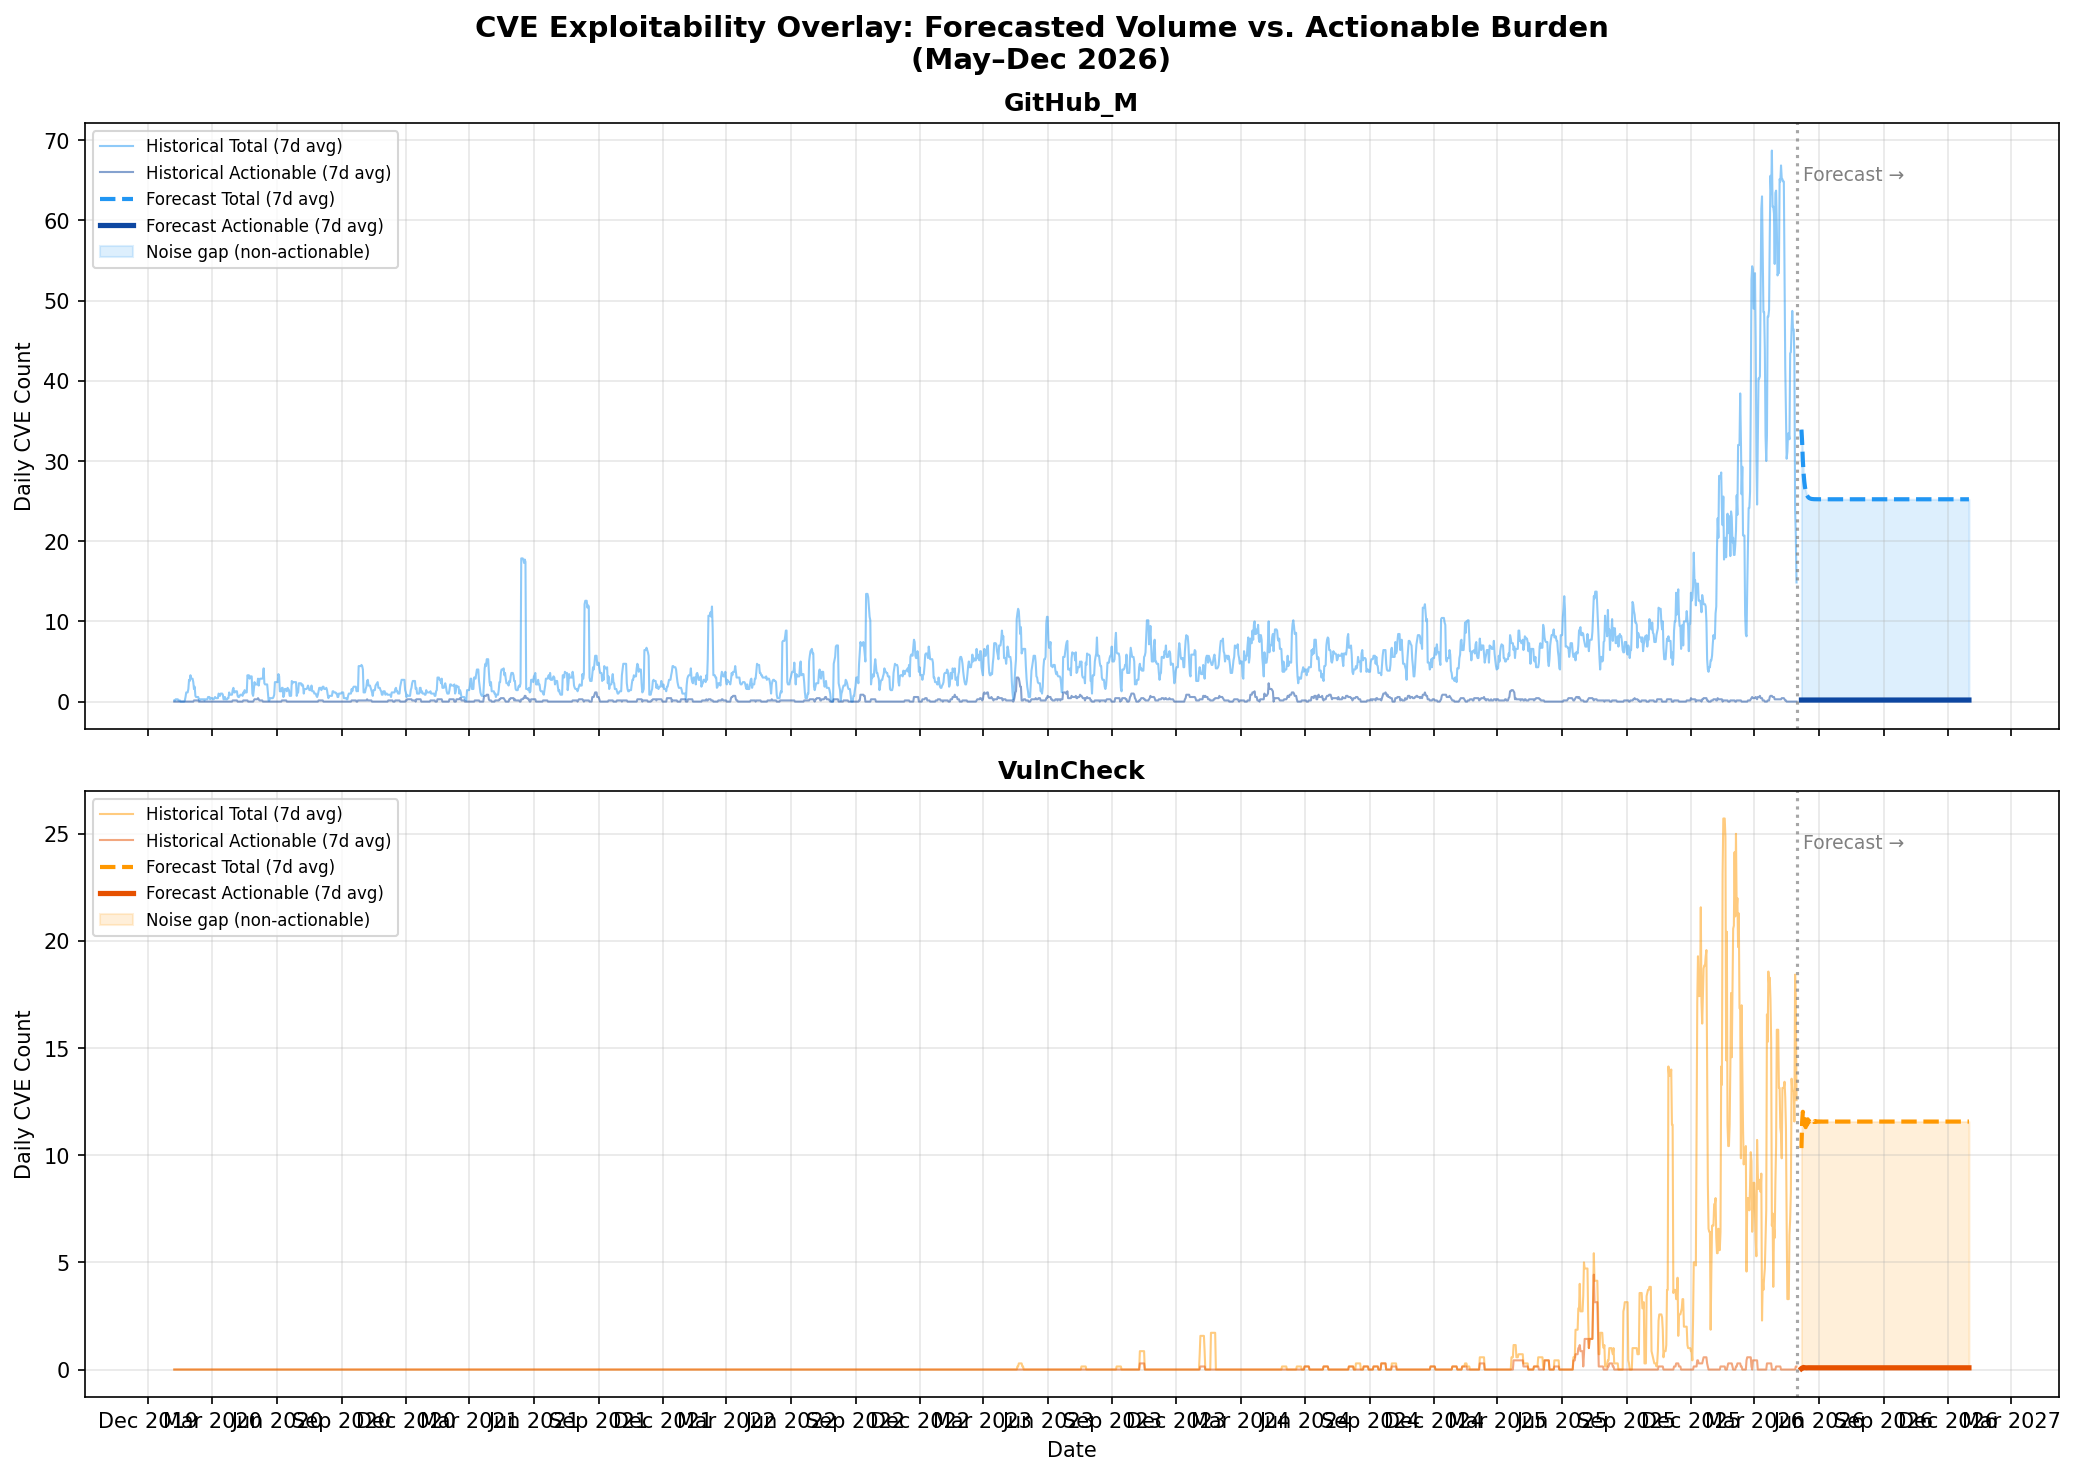
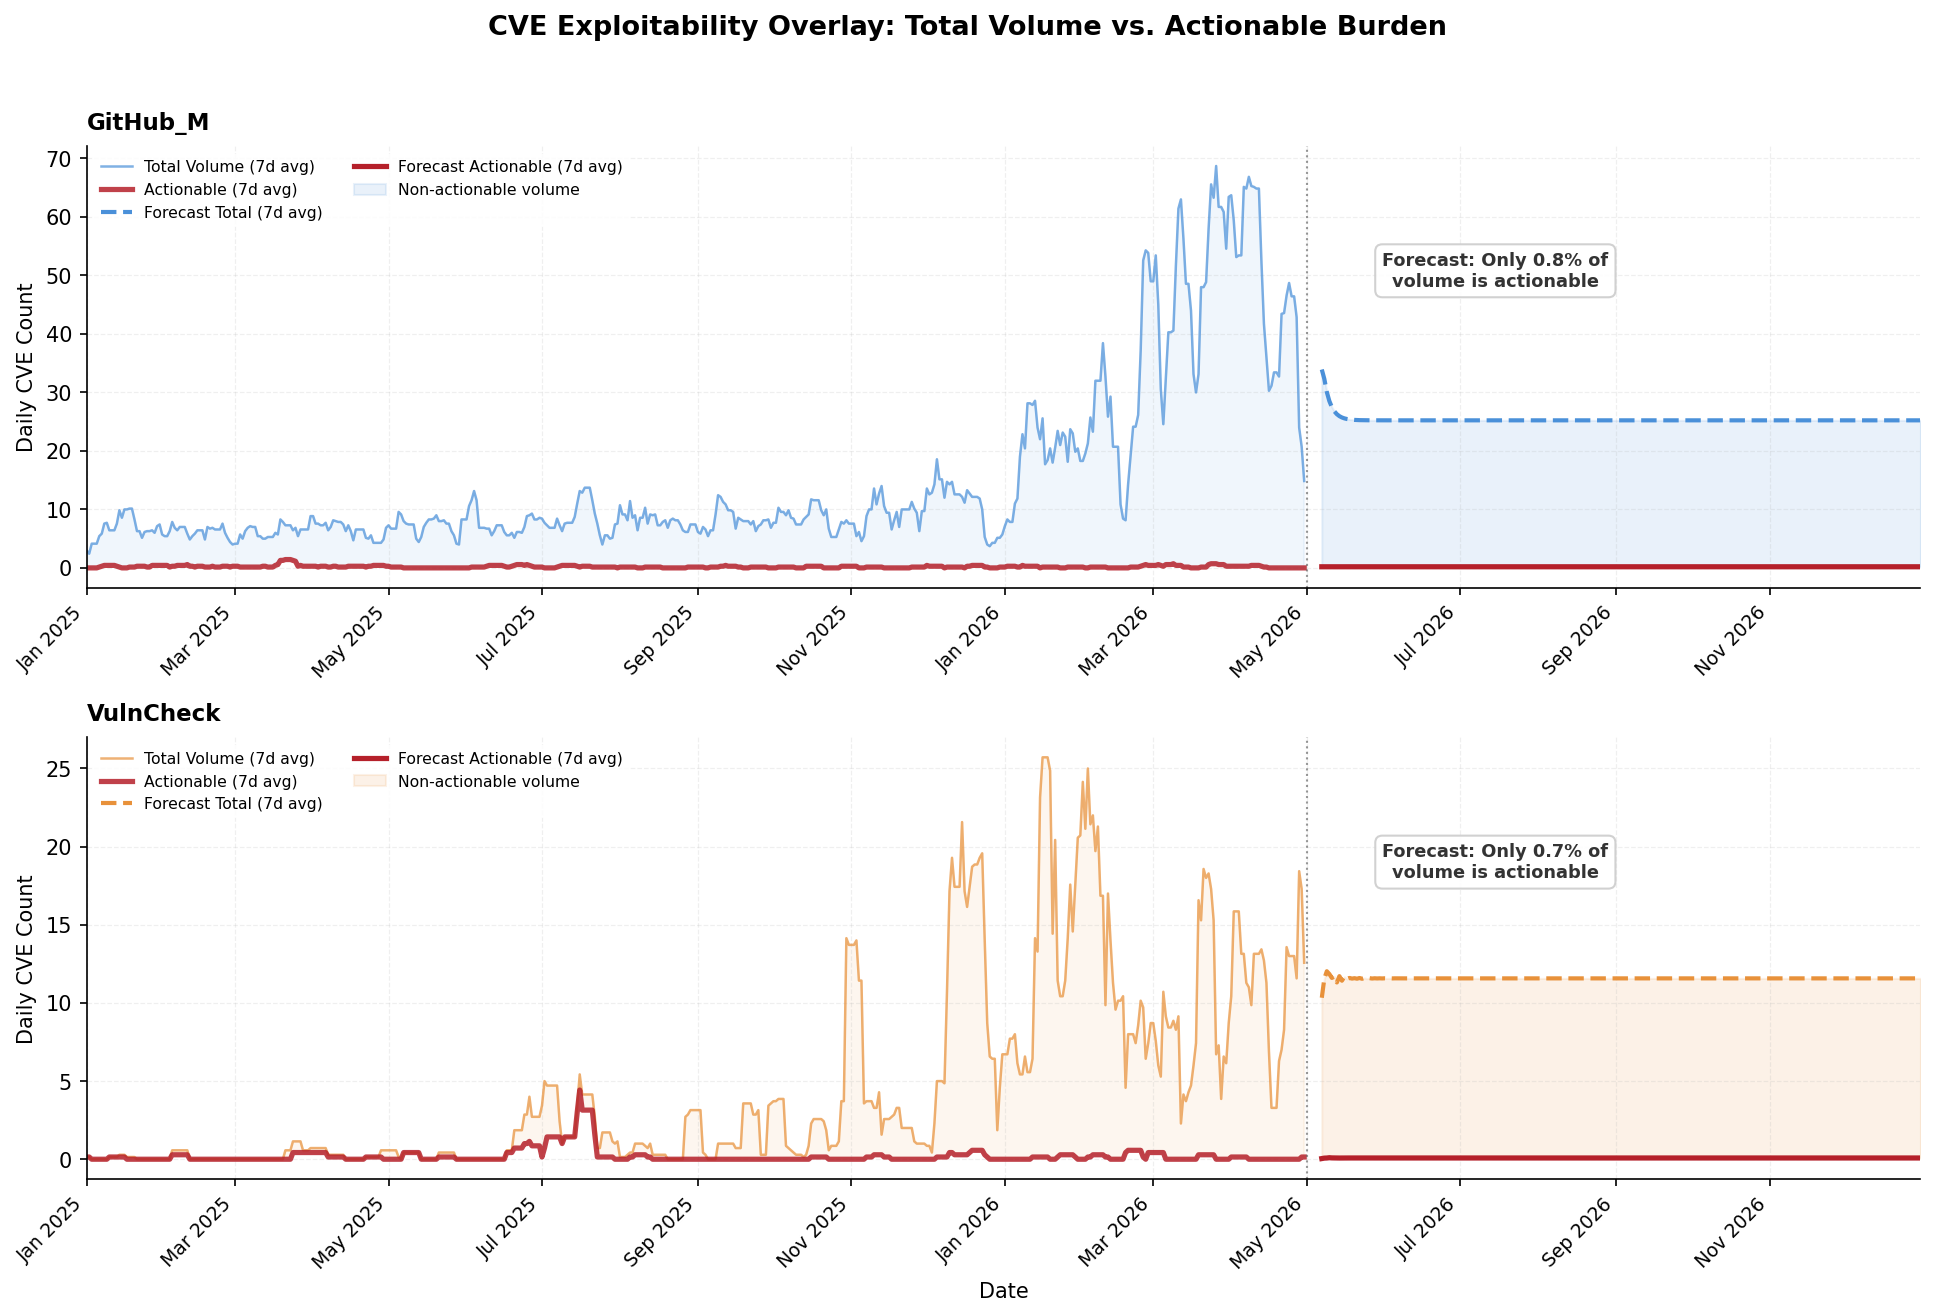
Refine exploitability overlay chart for readability
- Zoom time window to Jan 2025–Dec 2026 (drop noisy 2020–2024 tail)
- X-axis: 2-month major ticks, 'Mon Year' format, rotated 45 degrees
- Shade historical noise gap between total and actionable lines
- Actionable lines in high-contrast crimson at 2.5pt weight
- Remove top/right spines, dashed faint gridlines (alpha 0.2)
- Dynamic summary text box in forecast zone showing actionable %

diff --git a/exploitability_overlay.py b/exploitability_overlay.py
@@ -139,56 +139,68 @@ def forecast_series(ts: TimeSeries, label: str) -> TimeSeries:
 
 def plot_overlay(results: dict, output_path: str):
     """Generate dual-panel visualization comparing total vs. actionable forecasts."""
-    fig, axes = plt.subplots(2, 1, figsize=(14, 10), sharex=True)
+    fig, axes = plt.subplots(2, 1, figsize=(13, 9), sharex=False)
     fig.suptitle(
-        "CVE Exploitability Overlay: Forecasted Volume vs. Actionable Burden\n"
-        "(May–Dec 2026)",
-        fontsize=14,
+        "CVE Exploitability Overlay: Total Volume vs. Actionable Burden",
+        fontsize=13,
         fontweight="bold",
+        y=0.97,
     )
 
-    colors = {"GitHub_M": ("#2196F3", "#0D47A1"), "VulnCheck": ("#FF9800", "#E65100")}
+    VIZ_START = pd.Timestamp("2025-01-01")
+    VIZ_END = pd.Timestamp("2026-12-31")
+
+    color_total = {"GitHub_M": "#4a90d9", "VulnCheck": "#e8913a"}
+    color_action = "#b5202a"
+    noise_fill = {"GitHub_M": "#4a90d9", "VulnCheck": "#e8913a"}
 
     for idx, cna in enumerate(TARGET_CNAS):
         ax = axes[idx]
         data = results[cna]
 
-        # Historical (actual through April 2026)
         hist_total = data["hist_total"].to_dataframe()
         hist_action = data["hist_actionable"].to_dataframe()
+        fc_total = data["forecast_total"].to_dataframe()
+        fc_action = data["forecast_actionable"].to_dataframe()
 
-        # Rolling 7-day average for readability
         hist_total_7d = hist_total.rolling(7).mean()
         hist_action_7d = hist_action.rolling(7).mean()
+        fc_total_7d = fc_total.rolling(7).mean()
+        fc_action_7d = fc_action.rolling(7).mean()
 
+        # --- Historical lines ---
         ax.plot(
             hist_total_7d.index,
             hist_total_7d["count"],
-            color=colors[cna][0],
-            alpha=0.5,
-            linewidth=1,
-            label="Historical Total (7d avg)",
+            color=color_total[cna],
+            alpha=0.7,
+            linewidth=1.2,
+            label="Total Volume (7d avg)",
         )
         ax.plot(
             hist_action_7d.index,
             hist_action_7d["count"],
-            color=colors[cna][1],
-            alpha=0.5,
-            linewidth=1,
-            label="Historical Actionable (7d avg)",
+            color=color_action,
+            alpha=0.85,
+            linewidth=2.5,
+            label="Actionable (7d avg)",
         )
 
-        # Forecasted
-        fc_total = data["forecast_total"].to_dataframe()
-        fc_action = data["forecast_actionable"].to_dataframe()
+        # Shade historical noise gap
+        common_idx = hist_total_7d.index
+        ax.fill_between(
+            common_idx,
+            hist_action_7d["count"].reindex(common_idx).values.flatten(),
+            hist_total_7d["count"].reindex(common_idx).values.flatten(),
+            alpha=0.08,
+            color=noise_fill[cna],
+        )
 
-        fc_total_7d = fc_total.rolling(7).mean()
-        fc_action_7d = fc_action.rolling(7).mean()
-
+        # --- Forecast lines ---
         ax.plot(
             fc_total_7d.index,
             fc_total_7d["count"],
-            color=colors[cna][0],
+            color=color_total[cna],
             linewidth=2,
             linestyle="--",
             label="Forecast Total (7d avg)",
@@ -196,42 +208,82 @@ def plot_overlay(results: dict, output_path: str):
         ax.plot(
             fc_action_7d.index,
             fc_action_7d["count"],
-            color=colors[cna][1],
+            color=color_action,
             linewidth=2.5,
             linestyle="-",
             label="Forecast Actionable (7d avg)",
         )
 
-        # Shade the gap
+        # Shade forecast noise gap
         ax.fill_between(
             fc_total_7d.index,
             fc_action_7d["count"].values.flatten(),
             fc_total_7d["count"].values.flatten(),
-            alpha=0.15,
-            color=colors[cna][0],
-            label="Noise gap (non-actionable)",
+            alpha=0.12,
+            color=noise_fill[cna],
+            label="Non-actionable volume",
         )
 
-        # Vertical line at forecast boundary
-        ax.axvline(pd.Timestamp(FORECAST_START), color="gray", linestyle=":", alpha=0.7)
-        ax.text(
+        # --- Vertical divider at forecast boundary ---
+        ax.axvline(
             pd.Timestamp(FORECAST_START),
-            ax.get_ylim()[1] * 0.9,
-            " Forecast →",
-            fontsize=9,
-            color="gray",
+            color="#555555",
+            linestyle=":",
+            linewidth=1,
+            alpha=0.6,
         )
 
-        ax.set_ylabel("Daily CVE Count")
-        ax.set_title(f"{cna}", fontsize=12, fontweight="bold")
-        ax.legend(loc="upper left", fontsize=8)
-        ax.grid(True, alpha=0.3)
-        ax.xaxis.set_major_formatter(mdates.DateFormatter("%b %Y"))
-        ax.xaxis.set_major_locator(mdates.MonthLocator(interval=3))
+        # --- Zoom the time window ---
+        ax.set_xlim(VIZ_START, VIZ_END)
 
-    axes[-1].set_xlabel("Date")
-    plt.tight_layout()
-    plt.savefig(output_path, dpi=150, bbox_inches="tight")
+        # --- X-axis formatting ---
+        ax.xaxis.set_major_locator(mdates.MonthLocator(interval=2))
+        ax.xaxis.set_major_formatter(mdates.DateFormatter("%b %Y"))
+        plt.setp(ax.get_xticklabels(), rotation=45, ha="right", fontsize=9)
+
+        # --- Clean up spines and grid ---
+        ax.spines["top"].set_visible(False)
+        ax.spines["right"].set_visible(False)
+        ax.grid(True, linestyle="--", alpha=0.2, linewidth=0.6)
+
+        # --- Labels and legend ---
+        ax.set_ylabel("Daily CVE Count", fontsize=10)
+        ax.set_title(cna, fontsize=11, fontweight="bold", loc="left", pad=8)
+        ax.legend(
+            loc="upper left",
+            fontsize=7.5,
+            framealpha=0.85,
+            edgecolor="none",
+            ncol=2,
+        )
+
+        # --- Dynamic summary text box ---
+        fc_total_sum = max(int(fc_total["count"].clip(lower=0).sum()), 1)
+        fc_action_sum = int(fc_action["count"].clip(lower=0).sum())
+        pct_actionable = fc_action_sum / fc_total_sum * 100
+
+        summary_text = f"Forecast: Only {pct_actionable:.1f}% of\nvolume is actionable"
+        bbox_props = dict(
+            boxstyle="round,pad=0.4",
+            facecolor="white",
+            edgecolor="#cccccc",
+            alpha=0.9,
+        )
+        ax.text(
+            pd.Timestamp("2026-07-15"),
+            ax.get_ylim()[1] * 0.75,
+            summary_text,
+            fontsize=8.5,
+            fontweight="bold",
+            color="#333333",
+            bbox=bbox_props,
+            ha="center",
+            va="top",
+        )
+
+    axes[-1].set_xlabel("Date", fontsize=10)
+    plt.tight_layout(rect=[0, 0, 1, 0.95])
+    plt.savefig(output_path, dpi=150, bbox_inches="tight", facecolor="white")
     print(f"\n  Chart saved to: {output_path}")
     plt.close()
 